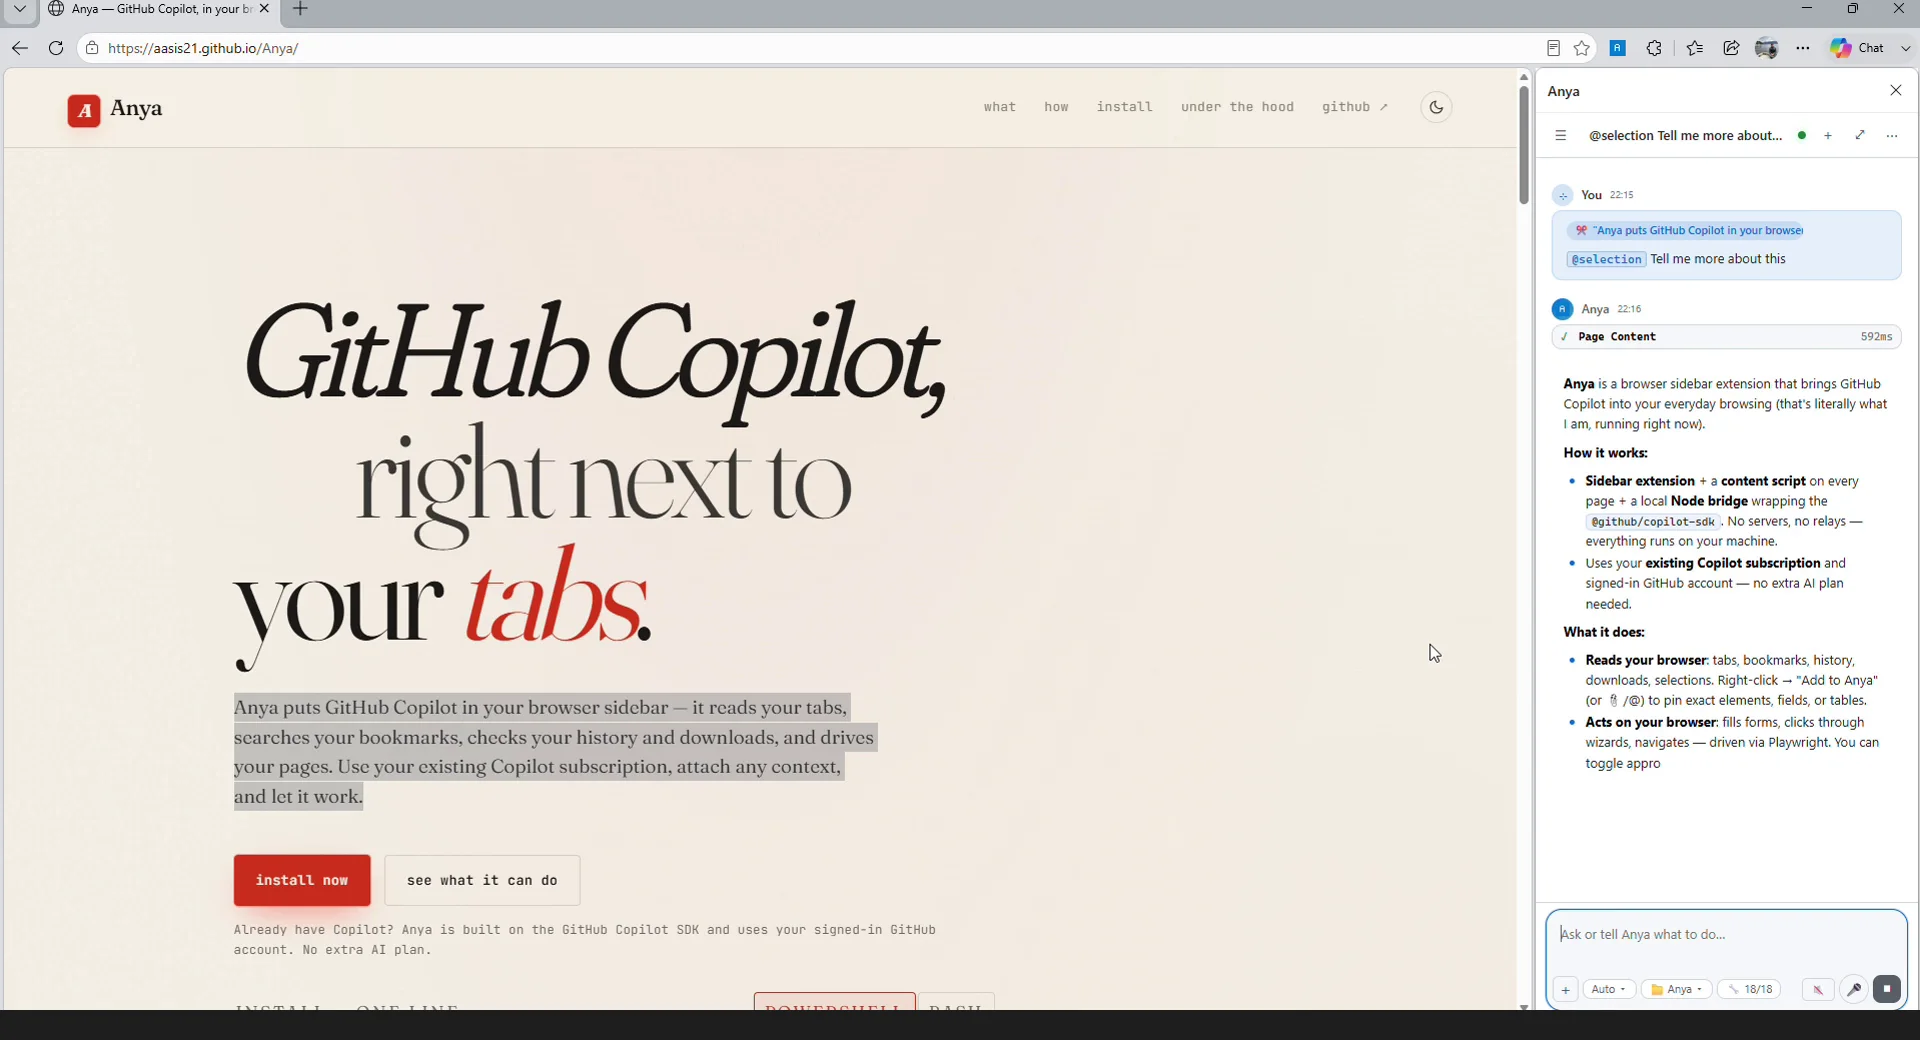
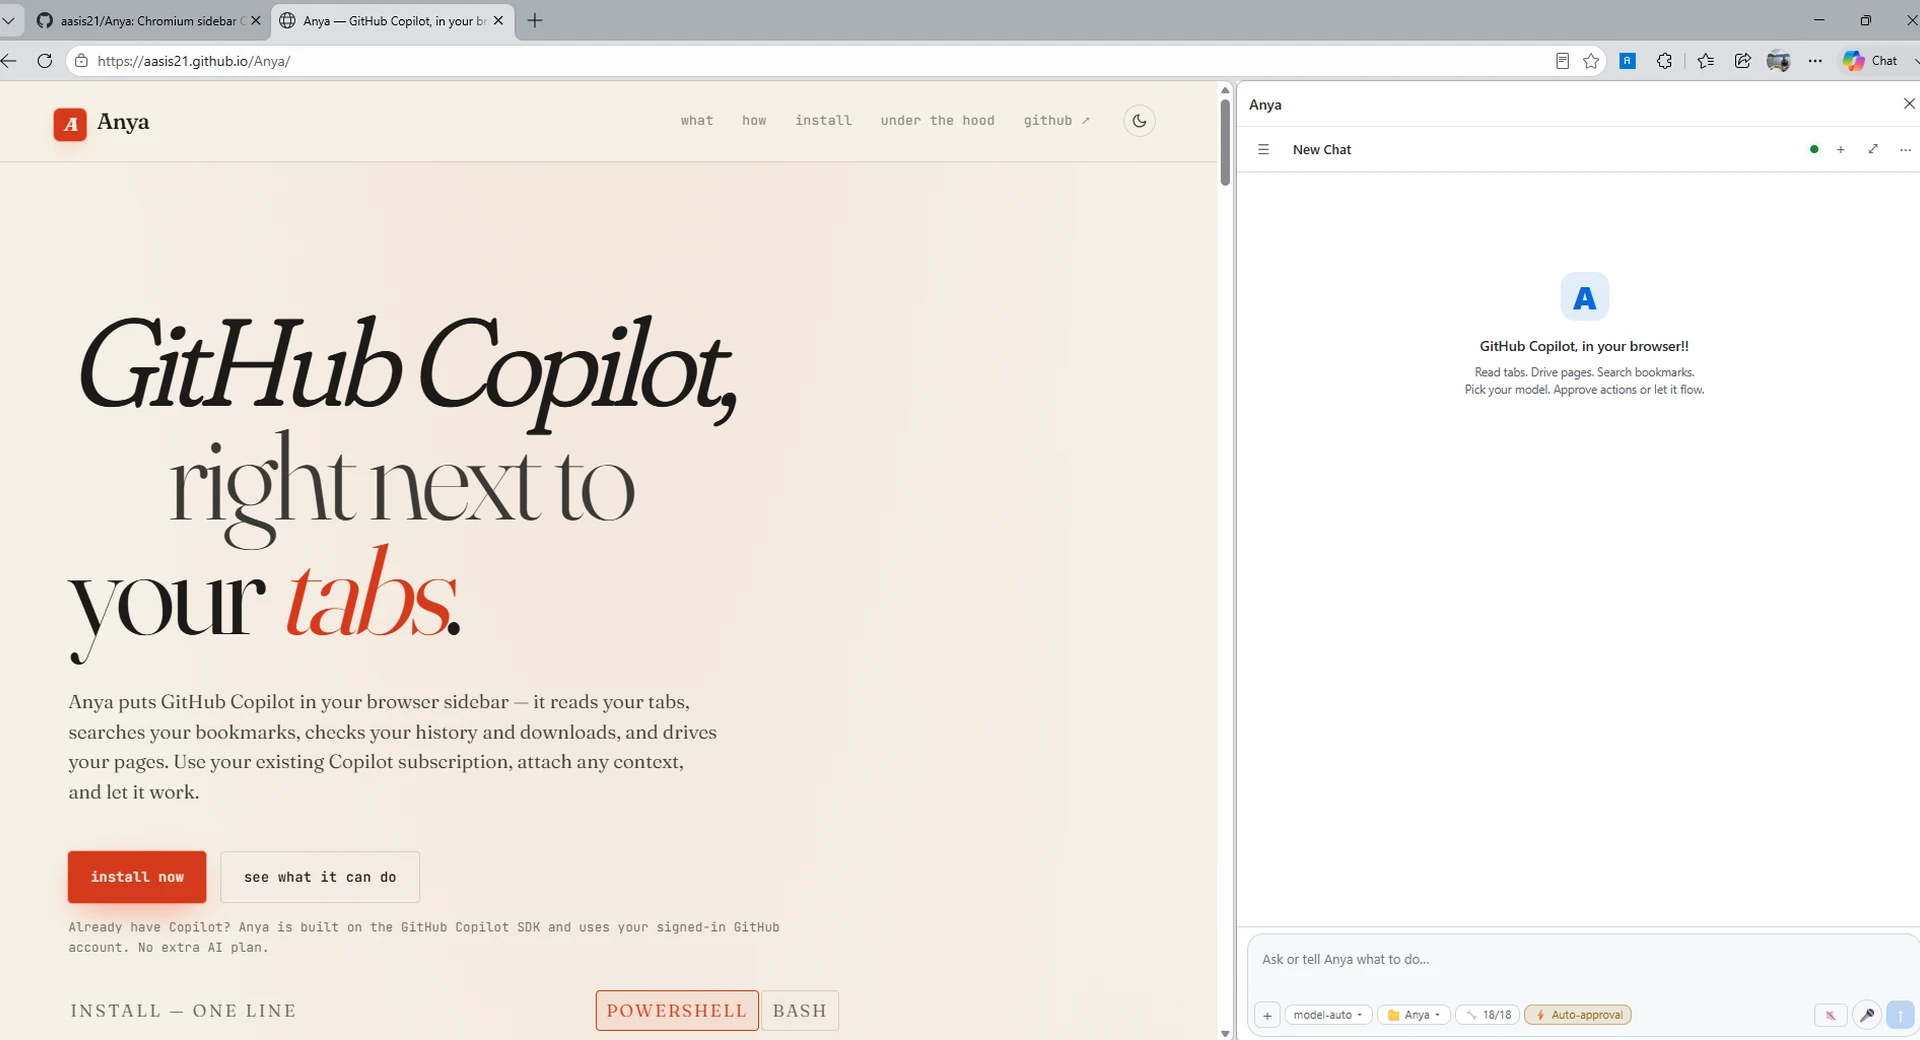
Refresh product-site screenshots with current dogfooded UI
hero.webp was stale (old 'Auto' model pill, no session-approval styling,
@user prompt). Replaced it with a fresh capture of Anya
answering questions on its own GitHub Pages site, showing the current
composer (model-auto, Auto-approval pill, folder-attach pill).

Also added assets/capabilities.webp — a full 'what can you do?' answer
listing browser/tab/file capabilities — as a new gallery shot, since it's
a clearer, more complete illustration of Anya's scope than reusing the
hero image twice.

diff --git a/docs/index.html b/docs/index.html
@@ -91,7 +91,7 @@
   <div class="hero-shot">
     <figure class="shot">
       <span class="shot-glow" aria-hidden="true"></span>
-      <img src="./assets/hero.webp" width="1920" height="1040" alt="Anya's sidebar open on its own site, answering 'Tell me more about this' with a page-content summary explaining how Anya works and what it does." />
+      <img src="./assets/hero.webp" width="1920" height="1040" alt="Anya's sidebar open on its own site, asking 'Hi Anya, what can you do?' and answering with a full breakdown of its browser, tab and file capabilities." />
     </figure>
   </div>
 </section>
@@ -216,8 +216,8 @@
       <figcaption><b>Draft a blog post.</b> Pulls context from open tabs, writes the first draft.</figcaption>
     </figure>
     <figure class="shot-fig">
-      <div class="shot"><span class="shot-glow" aria-hidden="true"></span><img src="./assets/hero.webp" width="1920" height="1040" alt="Anya's sidebar open on its own site, answering a question about how Anya works." loading="lazy" /></div>
-      <figcaption><b>Ask it anything.</b> Even about itself — it reads the page it's sitting on.</figcaption>
+      <div class="shot"><span class="shot-glow" aria-hidden="true"></span><img src="./assets/capabilities.webp" width="683" height="898" alt="Anya sidebar answering 'Hi Anya, what can you do?' with a full breakdown: see what you see, act in the browser, work with code, and typical asks." loading="lazy" /></div>
+      <figcaption><b>Ask it anything.</b> Even "what can you do?" — it reads the page it's sitting on.</figcaption>
     </figure>
   </div>
 </section>